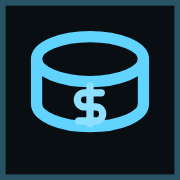
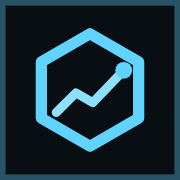
Rebrand to IceMetrix; PuckPayroll becomes the contract tool
One brand across the product and the X account: the app is now
IceMetrix, matching @IceMetrix and the IceMetrix Media hub on the Wire.

- New mark everywhere: ice-crystal hexagon with a rising stat line
  (header chip, favicon, PWA icons, apple-touch icon, OG card)
- Header wordmark ICEMETRIX; footer, index.html title/meta/social
  cards, and manifest renamed
- The contracts page keeps the PuckPayroll name as the tool itself:
  "PuckPayroll — the IceMetrix contract engine" (landing feature card
  updated to match)
- Feedback relay and news-fetch user agent renamed; nav links no
  longer wrap on tighter widths

Claude-Session: https://claude.ai/code/session_01UX6zWiyfKE8g9sSLHCXD5u

Changed region(s): [[0.1667, 0.1389, 0.8333, 0.8611]]

diff --git a/src/App.tsx b/src/App.tsx
@@ -17,27 +17,30 @@ import { ContractsPage } from './pages/ContractsPage'
 import { LandingPage } from './pages/LandingPage'
 
 function BrandMark() {
-  // Neon puck with a subtle dollar cut — payroll meets the rink.
+  // Ice-crystal hexagon with a rising stat line — ice plus metrics.
   return (
-    // Chip stays dark in both themes so the neon puck always pops.
+    // Chip stays dark in both themes so the neon mark always pops.
     <div
       className="grid h-9 w-9 place-items-center rounded-lg ring-1 ring-[#60d4fe]/40"
       style={{ background: '#0e141a' }}
     >
       <svg viewBox="0 0 32 32" className="h-6 w-6" aria-hidden>
-        <g stroke="#60d4fe" strokeWidth="2.2" strokeLinecap="round" fill="none">
-          {/* puck, side view */}
-          <ellipse cx="16" cy="12.5" rx="10" ry="4.4" />
-          <path d="M6 12.5 V19 c0 2.4 4.5 4.4 10 4.4 s10-2 10-4.4 V12.5" />
-        </g>
-        {/* dollar tick on the puck face */}
         <path
-          d="M16 15.2 V22.6 M18.1 16.6 h-3.2 a1.3 1.3 0 0 0 0 2.6 h2.2 a1.3 1.3 0 0 1 0 2.6 h-3.2"
-          stroke="#8ee0ff"
-          strokeWidth="1.4"
-          strokeLinecap="round"
+          d="M16 5.5 L6.9 10.75 V21.25 L16 26.5 L25.1 21.25 V10.75 Z"
           fill="none"
+          stroke="#60d4fe"
+          strokeWidth="2.1"
+          strokeLinejoin="round"
         />
+        <path
+          d="M10 20.5 L13.5 16.5 L16.5 18.3 L22 12.5"
+          fill="none"
+          stroke="#8ee0ff"
+          strokeWidth="1.7"
+          strokeLinecap="round"
+          strokeLinejoin="round"
+        />
+        <circle cx="22" cy="12.5" r="1.6" fill="#60d4fe" />
       </svg>
     </div>
   )
@@ -49,10 +52,10 @@ function Brand() {
       <BrandMark />
       <div className="leading-none">
         <div className="text-sm font-black tracking-tight text-white">
-          PUCK<span className="text-ice-400">PAYROLL</span>
+          ICE<span className="text-ice-400">METRIX</span>
         </div>
         {/* Subtitle wraps into a blob on phones — wordmark only there. */}
-        <div className="hidden text-[10px] uppercase tracking-widest text-slate-500 sm:block">
+        <div className="hidden whitespace-nowrap text-[10px] uppercase tracking-widest text-slate-500 sm:block">
           Rosters · Trades · Contracts
         </div>
       </div>
@@ -100,31 +103,31 @@ function Shell() {
           <nav className="ml-2 hidden items-center gap-1 sm:flex">
             <Link
               to="/league"
-              className="rounded-lg px-3 py-1.5 text-sm font-medium text-slate-300 transition hover:bg-rink-850 hover:text-white"
+              className="whitespace-nowrap rounded-lg px-3 py-1.5 text-sm font-medium text-slate-300 transition hover:bg-rink-850 hover:text-white"
             >
               Power Rankings
             </Link>
             <Link
               to="/free-agents"
-              className="rounded-lg px-3 py-1.5 text-sm font-medium text-slate-300 transition hover:bg-rink-850 hover:text-white"
+              className="whitespace-nowrap rounded-lg px-3 py-1.5 text-sm font-medium text-slate-300 transition hover:bg-rink-850 hover:text-white"
             >
               Free Agents
             </Link>
             <Link
               to="/leaders"
-              className="rounded-lg px-3 py-1.5 text-sm font-medium text-slate-300 transition hover:bg-rink-850 hover:text-white"
+              className="whitespace-nowrap rounded-lg px-3 py-1.5 text-sm font-medium text-slate-300 transition hover:bg-rink-850 hover:text-white"
             >
               Leaders
             </Link>
             <Link
               to="/contracts"
-              className="rounded-lg px-3 py-1.5 text-sm font-medium text-slate-300 transition hover:bg-rink-850 hover:text-white"
+              className="whitespace-nowrap rounded-lg px-3 py-1.5 text-sm font-medium text-slate-300 transition hover:bg-rink-850 hover:text-white"
             >
               Contracts
             </Link>
             <Link
               to="/wire"
-              className="rounded-lg px-3 py-1.5 text-sm font-medium text-slate-300 transition hover:bg-rink-850 hover:text-white"
+              className="whitespace-nowrap rounded-lg px-3 py-1.5 text-sm font-medium text-slate-300 transition hover:bg-rink-850 hover:text-white"
             >
               The Wire
             </Link>
@@ -233,7 +236,7 @@ function Shell() {
       </div>
 
       <footer className="mx-auto max-w-7xl px-4 py-8 text-center text-xs text-slate-600">
-        PuckPayroll · rosters, trades & contracts for all 32 NHL teams · ratings and dollars are
+        IceMetrix · rosters, trades & contracts for all 32 NHL teams · ratings and dollars are
         estimates
       </footer>
     </div>

diff --git a/index.html b/index.html
@@ -11,7 +11,7 @@
           document.documentElement.dataset.theme = 'light'
       } catch (e) {}
     </script>
-    <title>PuckPayroll — NHL Rosters, Trades & Contracts</title>
+    <title>IceMetrix — NHL Rosters, Trades &amp; Contracts</title>
     <meta
       name="description"
       content="Build trades, sign free agents, project contracts, and watch projections move for all 32 NHL teams — with live rosters, stats, and injuries."
@@ -23,11 +23,11 @@
     <link rel="apple-touch-icon" href="./apple-touch-icon.png" />
     <meta name="apple-mobile-web-app-capable" content="yes" />
     <meta name="apple-mobile-web-app-status-bar-style" content="black-translucent" />
-    <meta name="apple-mobile-web-app-title" content="PuckPayroll" />
+    <meta name="apple-mobile-web-app-title" content="IceMetrix" />
 
     <!-- Social cards -->
     <meta property="og:type" content="website" />
-    <meta property="og:title" content="PuckPayroll — NHL Rosters, Trades & Contracts" />
+    <meta property="og:title" content="IceMetrix — NHL Rosters, Trades &amp; Contracts" />
     <meta
       property="og:description"
       content="Build trades, sign free agents, project contracts, and watch projections move for all 32 NHL teams — with live rosters, stats, and injuries."
@@ -37,7 +37,7 @@
     <meta property="og:image:width" content="1200" />
     <meta property="og:image:height" content="630" />
     <meta name="twitter:card" content="summary_large_image" />
-    <meta name="twitter:title" content="PuckPayroll — NHL Rosters, Trades & Contracts" />
+    <meta name="twitter:title" content="IceMetrix — NHL Rosters, Trades &amp; Contracts" />
     <meta
       name="twitter:description"
       content="Build trades, sign free agents, project contracts, and watch projections move for all 32 NHL teams."

diff --git a/src/pages/ContractsPage.tsx b/src/pages/ContractsPage.tsx
@@ -76,10 +76,12 @@ export function ContractsPage() {
   return (
     <div className="space-y-5">
       <div>
-        <h1 className="text-2xl font-black text-white">Contract Engine</h1>
+        <h1 className="text-2xl font-black text-white">
+          Puck<span className="text-ice-400">Payroll</span>
+        </h1>
         <p className="text-sm text-slate-400">
-          Project a market contract for any player — or invent one. Tune age and rating and watch
-          the number move.
+          The IceMetrix contract engine — project a market deal for any player, or invent one.
+          Tune age and rating and watch the number move.
         </p>
       </div>
 

diff --git a/src/pages/LandingPage.tsx b/src/pages/LandingPage.tsx
@@ -27,8 +27,8 @@ const FEATURES = [
   },
   {
     to: '/contracts',
-    title: 'Contract Engine',
-    desc: 'Project a market deal for any player: AAV × term, cap share, and the CBA 20% clamp.',
+    title: 'PuckPayroll',
+    desc: 'The contract engine — project a market deal for any player: AAV × term, cap share, and the CBA 20% clamp.',
   },
   {
     to: '/free-agents',

diff --git a/api/feedback.js b/api/feedback.js
@@ -35,7 +35,7 @@ export default async function handler(req, res) {
 
   const label = { bug: '🐛 Bug report', idea: '💡 Idea', other: '💬 Feedback' }[type]
   const lines = [
-    `**${label}** — PuckPayroll`,
+    `**${label}** — IceMetrix`,
     message,
     contact && `— contact: ${contact}`,
     page && `— page: ${page}`,
